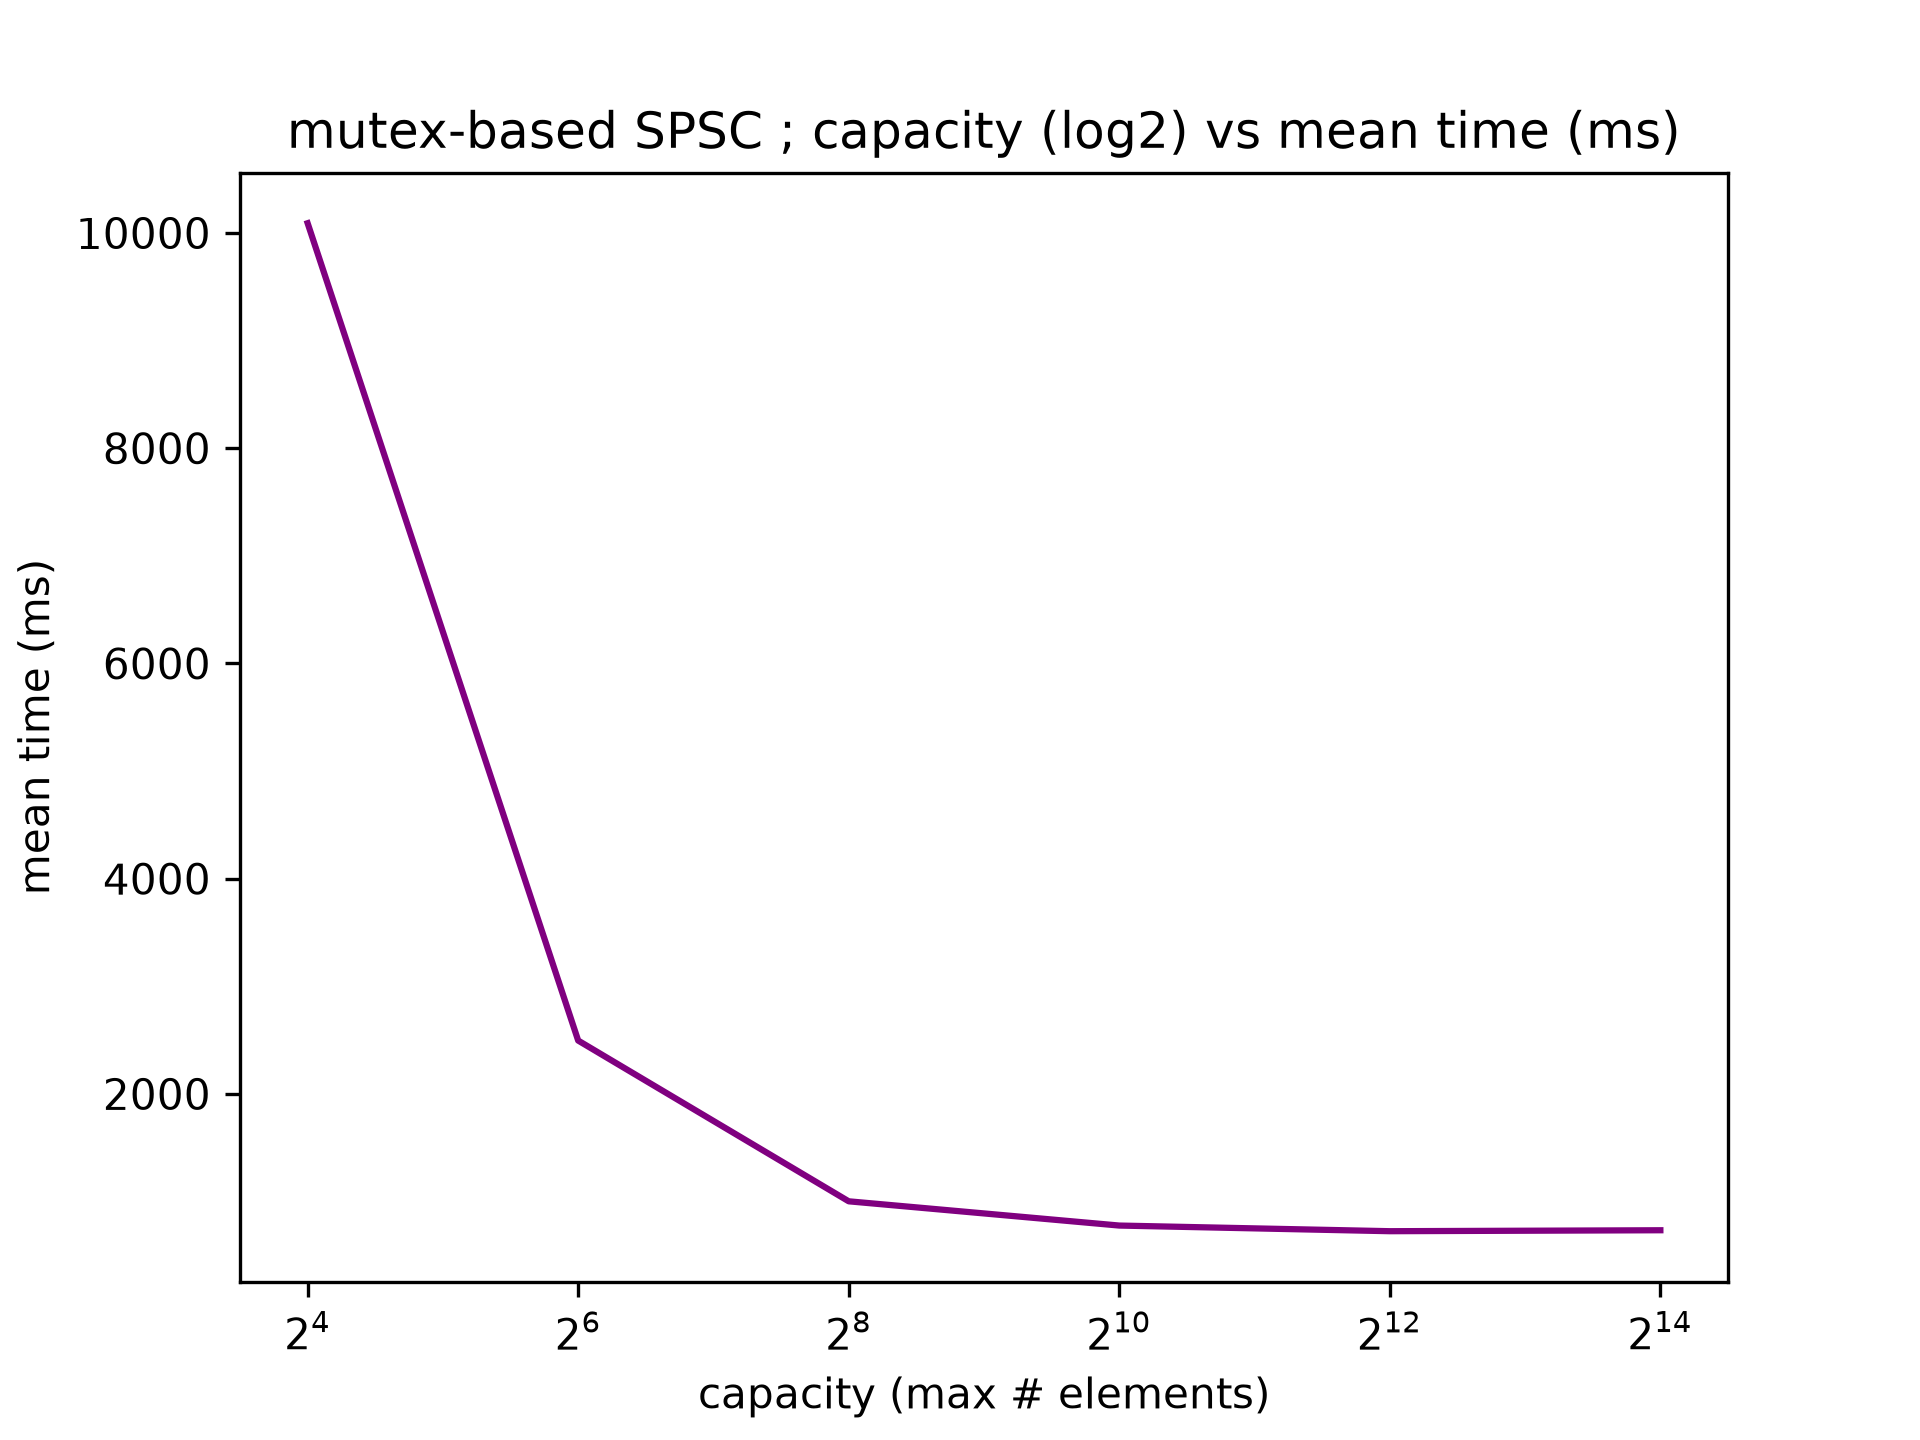
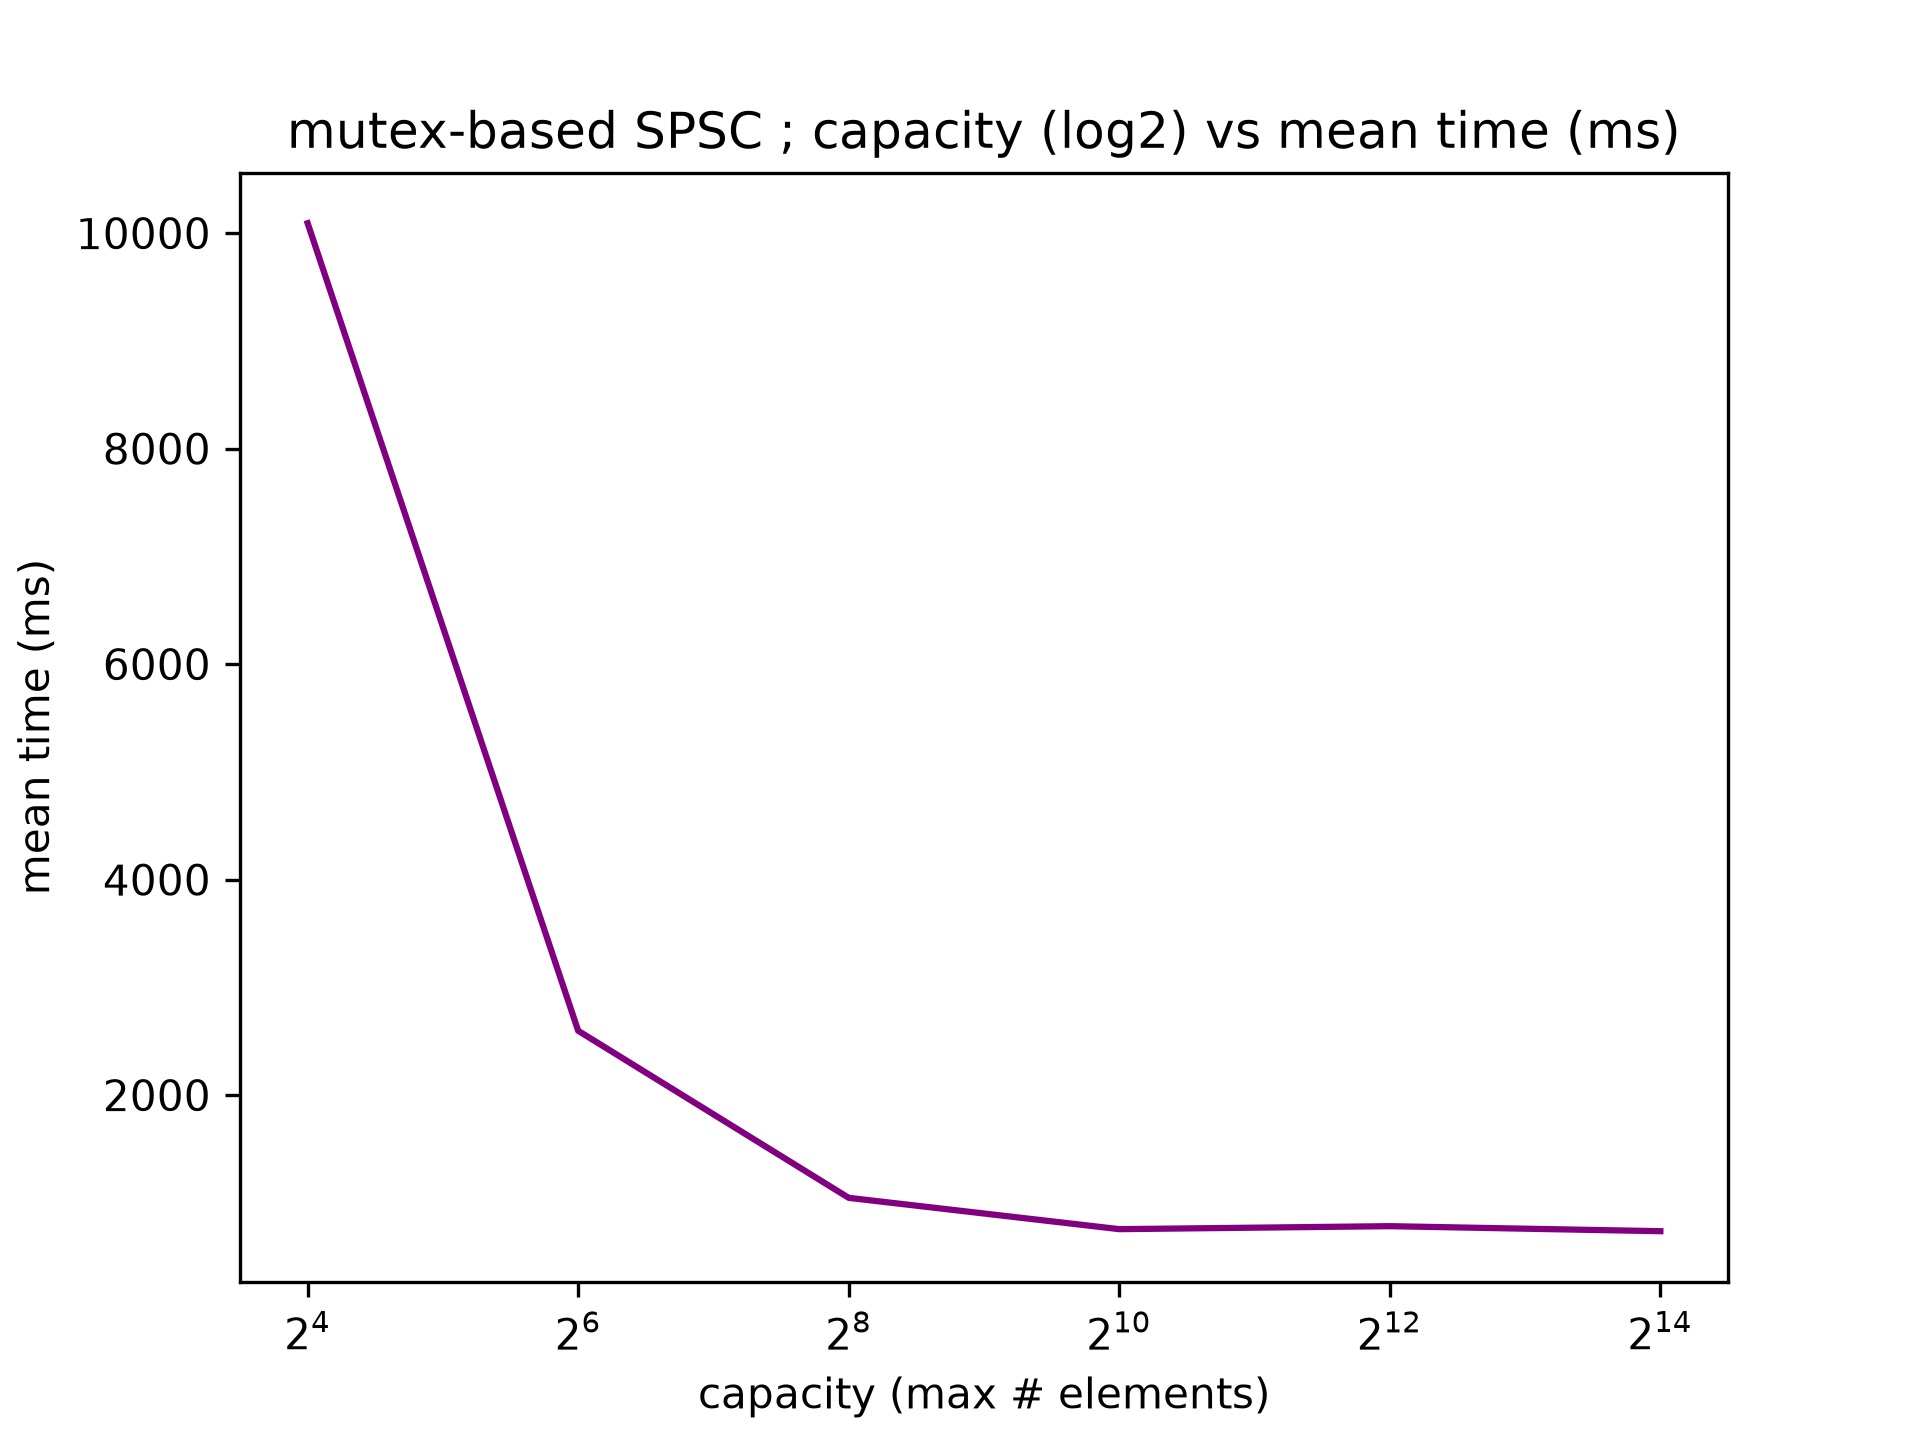
benchmarks: add percentile curve plots

diff --git a/pyplots.py b/pyplots.py
@@ -15,8 +15,28 @@ def capacity_ms_mutex_spsc():
     ax.set_xlabel("capacity (max # elements)")
     ax.set_ylabel("mean time (ms)")
     fig.savefig('capacity_ms_mutex_spsc.png', dpi=300)
-    plt.show()
+
+
+def percentiles_of_capacity_mutex_spsc():
+
+    fig, ax = plt.subplots()
+
+    x = [25, 50, 75, 90, 95, 99]
+    cols = ["p25", "median", "p75", "p90", "p95", "p99"]
+
+    for _, row in df.iterrows():
+        ax.plot(x, row[cols].values, label=f"capacity {int(row['capacity'])}")
+
+    ax.set_xlabel("percentiles")
+    ax.set_ylabel("time (ms)")
+    ax.set_title("mutex-based SPSC ; times by percentile for each capacity")
+    ax.legend(bbox_to_anchor=(1.05, 1), loc='upper left')
+    plt.tight_layout()
+    fig.savefig('capacity_percentile_distribution_mutex_spsc.png', bbox_inches='tight')
+
 
 if __name__ == '__main__':
 
     capacity_ms_mutex_spsc()
+    percentiles_of_capacity_mutex_spsc()
+    plt.show()

diff --git a/src/stats.cpp b/src/stats.cpp
@@ -98,6 +98,9 @@ void Stats::print(int capacity) {
     std::cout << "mean: " << mean() << "\n";
     std::cout << "median: " << percentile(50.0) << "\n";
     std::cout << "stdev: " << std_dev() << "\n";
+    std::cout << "p25: " << percentile(25.0) << "\n";
+    std::cout << "p75: " << percentile(75.0) << "\n";
+    std::cout << "p90: " << percentile(90.0) << "\n";
     std::cout << "p95: " << percentile(95.0) << "\n";
     std::cout << "p99: " << percentile(99.0) << "\n";
     std::cout << "iqr: " << iqr() << "\n";
